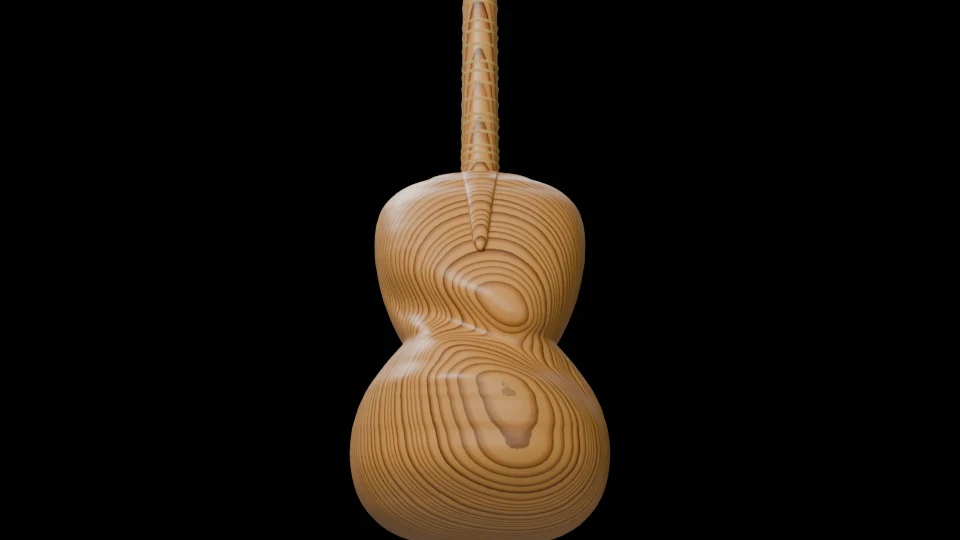
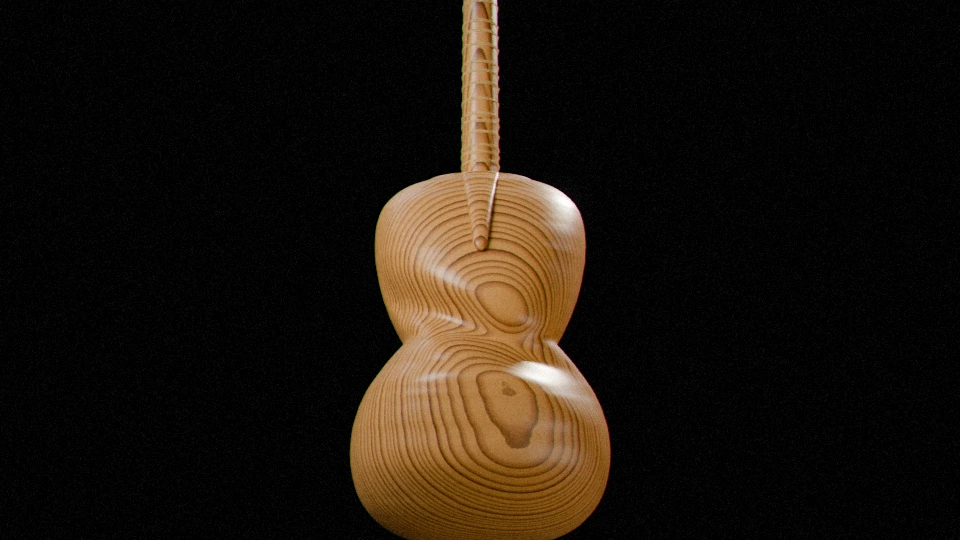
Render: natural window light and photographic imperfections (round 8)
Window key with soft frame shadows, darker room, warm bounce and a slightly hot
back light replace the even studio light (TAR_LIGHT=studio keeps it). Each frame
gets a seeded photo finish: off-centre vignette, light fall-off, highlight bloom,
slight colour fringing and per-frame grain; the raw render is kept alongside.

Claude-Session: https://claude.ai/code/session_01G1uTAfhbgKsxoFAeno84xV

Changed region(s): [[0.375, 0.0, 0.6562, 1.0]]

diff --git a/render/build_scene.py b/render/build_scene.py
@@ -379,6 +379,34 @@ def add_soft_key():
     return key
 
 
+def add_window_light():
+    """Natural, imperfect light, as in a photo taken by a window (round 8): one big window up
+    and to the left whose frame casts soft bar shadows, a darker room, a warm bounce from a
+    wooden table on the right, and a small back light that runs a little hot on the edges.
+    The lights stay fixed while the instrument turns, so its light changes as a real one would."""
+    target = PIVOT + Vector((0, 0, 0.05))
+    def area(name, loc, size, size_y, energy, colour):
+        bpy.ops.object.light_add(type='AREA', location=loc)
+        l = bpy.context.object; l.name = name
+        l.data.shape = 'RECTANGLE'; l.data.size = size; l.data.size_y = size_y
+        l.data.energy = energy; l.data.color = colour
+        l.rotation_euler = (target - l.location).normalized().to_track_quat('-Z', 'Y').to_euler()
+        return l
+    window = area('window', (-1.7, -1.1, 1.75), 1.1, 1.5, 230, (1.0, 0.93, 0.83))
+    # the window frame: two crossing bars just in front of the glass, seen by the light only
+    d = (target - window.location).normalized()
+    for k, (sx, sy) in enumerate(((0.035, 1.6), (1.2, 0.035))):
+        bpy.ops.mesh.primitive_plane_add(size=1, location=window.location + d * 0.12)
+        bar = bpy.context.object; bar.name = f'window_bar{k}'
+        bar.scale = (sx, sy, 1); bar.rotation_euler = window.rotation_euler
+        bar.visible_camera = False; bar.visible_glossy = False
+        # off-centre, as a real window never lines up with the subject
+        bar.location += window.matrix_world.to_3x3() @ Vector((0.12, -0.18, 0))
+    area('bounce', (1.4, -0.9, -0.35), 1.6, 1.0, 45, (1.0, 0.78, 0.55))
+    area('rim', (1.0, 1.5, 1.2), 0.35, 0.35, 140, (1.0, 0.9, 0.78))
+    return window
+
+
 def add_camera():
     cam_data = bpy.data.cameras.new('camera')
     cam_data.sensor_fit = 'VERTICAL'
@@ -462,16 +490,28 @@ def setup(width, height, samples):
     sc.render.image_settings.file_format = 'PNG'
     pivot, _ = import_model()
     build_materials()
-    build_world()
-    add_soft_key()
+    if os.environ.get('TAR_LIGHT', 'natural') == 'studio':
+        build_world(); add_soft_key()  # rounds 1–7: soft, even studio light
+    else:
+        build_world(strength=0.25); add_window_light()
     cam = add_camera()
     return sc, pivot, cam
 
 
-def render(sc, path):
-    sc.render.filepath = str(path)
+def render(sc, path, seed=0, raw_dir=None):
+    """Renders one frame; unless TAR_FINISH=0, the photographic flaws of photo_finish.py are
+    added and the untouched render is kept in raw_dir (or next to it, as *_raw.png)."""
+    raw = (raw_dir / path.name) if raw_dir else path.with_name(path.stem + '_raw.png')
+    raw.parent.mkdir(parents=True, exist_ok=True)
+    sc.render.filepath = str(raw)
     t = time.time()
     bpy.ops.render.render(write_still=True)
+    if os.environ.get('TAR_FINISH', '1') != '0':
+        from PIL import Image
+        import photo_finish
+        photo_finish.finish(Image.open(raw), seed).save(path)
+    else:
+        raw.replace(path)
     print(f'rendered {path.name} in {time.time() - t:.1f}s', flush=True)
 
 
@@ -482,7 +522,7 @@ def main(argv):
         out = BUILD / os.environ.get('TAR_TEST_DIR', 'test'); out.mkdir(parents=True, exist_ok=True)
         for k in SCENES['keyframes'][1:]:
             apply_pose(pivot, cam, k['yaw'], k['pitch'], k['target'], k['dist'], k['elev'], k.get('aperture', 0))
-            render(sc, out / f"scene_{k['caption']}.png")
+            render(sc, out / f"scene_{k['caption']}.png", seed=k['caption'], raw_dir=out / 'raw')
     elif mode == 'scroll':
         start, end = int(argv[1]), int(argv[2])
         total = int(argv[3]) if len(argv) > 3 else 240
@@ -493,7 +533,7 @@ def main(argv):
             if path.exists():
                 continue  # resumable: frames already rendered are kept
             apply_state(pivot, cam, sample_scroll(f / (total - 1)))
-            render(sc, path)
+            render(sc, path, seed=f, raw_dir=HERE / 'frames_raw' / 'scroll_raw')
     elif mode == 'sheet':
         sc, pivot, cam = setup(1200, 900, 64)
         out = HERE / 'frames_raw' / 'sheet'; out.mkdir(parents=True, exist_ok=True)
@@ -504,7 +544,7 @@ def main(argv):
                 if path.exists():
                     continue
                 apply_pose(pivot, cam, yaw, pitch, [c['x'], c['y'], c['z']], 250, 0)
-                render(sc, path)
+                render(sc, path, seed=10000 + yaw * 10 + pitch, raw_dir=HERE / 'frames_raw' / 'sheet_raw')
 
 
 if __name__ == '__main__':

diff --git a/render/photo_finish.py b/render/photo_finish.py
@@ -1,0 +1,76 @@
+"""The small flaws of a real photograph, applied to each rendered frame.
+
+A path tracer gives a perfect image: even exposure, no lens, no sensor. Real photos of an
+instrument never look like that, and the eye notices. This adds, gently:
+
+- a lens that is a little darker at the corners, and not exactly round or centred;
+- exposure that is not perfectly even across the frame (a light that falls off);
+- a soft halo round the brightest highlights (bloom of a real lens);
+- a trace of colour fringing towards the edges (lateral chromatic aberration);
+- sensor grain, stronger in the shadows, different in every frame.
+
+Every effect is seeded and depends only on the frame's position, so a frame re-rendered
+later is identical, and neighbouring frames differ only in their grain.
+
+    python3 photo_finish.py in.png out.png [seed]
+"""
+import sys
+
+import numpy as np
+from PIL import Image, ImageFilter
+
+
+def _scale_channel(ch, factor):
+    """Scales one channel about the image centre (for colour fringing)."""
+    h, w = ch.shape
+    im = Image.fromarray(ch, mode='F')
+    nw, nh = round(w * factor), round(h * factor)
+    im = im.resize((nw, nh), Image.BICUBIC)
+    x0, y0 = (nw - w) // 2, (nh - h) // 2
+    return np.asarray(im.crop((x0, y0, x0 + w, y0 + h)), dtype=np.float32)
+
+
+def finish(img, seed=0, grain=1.0):
+    a = np.asarray(img.convert('RGB'), dtype=np.float32) / 255.0
+    h, w, _ = a.shape
+    yy, xx = np.mgrid[0:h, 0:w].astype(np.float32)
+    # normalised coordinates, -1…1 on the short side
+    s = min(w, h) / 2
+    x, y = (xx - w / 2) / s, (yy - h / 2) / s
+
+    # 1. bloom: a soft halo round the highlights
+    lum = a @ np.array([0.2126, 0.7152, 0.0722], dtype=np.float32)
+    hi = np.clip((lum - 0.62) / 0.38, 0, 1)[..., None] * a
+    hi_img = Image.fromarray((hi * 255).astype(np.uint8))
+    halo = np.asarray(hi_img.filter(ImageFilter.GaussianBlur(radius=max(w, h) / 90)), dtype=np.float32) / 255.0
+    a = a + halo * 0.18
+
+    # 2. lateral chromatic aberration: red a touch larger, blue a touch smaller
+    a[..., 0] = _scale_channel(a[..., 0], 1.0007)
+    a[..., 2] = _scale_channel(a[..., 2], 0.9993)
+
+    # 3. vignette: slightly oval and a little off centre, as on a real lens and sensor
+    r2 = ((x - 0.04) / 1.25) ** 2 + ((y + 0.03) / 1.1) ** 2
+    a *= (1 - 0.28 * np.clip(r2, 0, 2.5) / 2.5)[..., None] ** 1.0
+
+    # 4. light falling off across the frame: the window is up and to the left
+    fall = 1 + 0.05 * (-x * 0.6 - y * 0.8) / 2
+    a *= fall[..., None]
+
+    # 5. grain: fine, slightly coloured, stronger in the shadows; new in every frame
+    rng = np.random.default_rng(seed)
+    n = rng.normal(0, 1, (h, w, 1)).astype(np.float32) + 0.35 * rng.normal(0, 1, (h, w, 3)).astype(np.float32)
+    n_img = Image.fromarray(np.clip(n[..., 0] * 40 + 128, 0, 255).astype(np.uint8))
+    soft = (np.asarray(n_img.filter(ImageFilter.GaussianBlur(0.6)), dtype=np.float32) - 128) / 40
+    n = 0.5 * n + 0.5 * soft[..., None]
+    lum = a @ np.array([0.2126, 0.7152, 0.0722], dtype=np.float32)
+    amount = grain * (0.010 + 0.016 * (1 - np.clip(lum, 0, 1)))[..., None]
+    a = a + n * amount
+
+    return Image.fromarray((np.clip(a, 0, 1) * 255 + 0.5).astype(np.uint8))
+
+
+if __name__ == '__main__':
+    src, dst = sys.argv[1], sys.argv[2]
+    seed = int(sys.argv[3]) if len(sys.argv) > 3 else 0
+    finish(Image.open(src), seed).save(dst)

diff --git a/docs/tar-3d/SPEC.md b/docs/tar-3d/SPEC.md
@@ -714,3 +714,16 @@ docs/tar-3d/test/    عکسها و گزارش تست فاز ۷
 |-------|------------------|------------------|
 | چوب توت کاسه، دسته و سر: اشباع رنگ × ۰٫۹ و روشنایی × ۰٫۹ (`#c98a3a/#a05a24/#4a2008` → `#b58241/#90572c/#43210d`)؛ لبهی چوبی دور پوست هم به همین نسبت. پرداخت ساتن دست نخورد | فاز ۵ | ر۲؛ بازبینی ر۳ |
 | سرپنجه: محور کُنده نزدیکتر و کجتر، پهنای سالها بسیار نامنظم، موجهای آرام در طول الیاف و لبهی نرمتر خطوط؛ بهجای نوارهای موازی و همفاصله، رگههایی با فاصلهی ناهمسان، باریک و پهن شدن و انحنای طبیعی | فاز ۵ (هندسهی فاز ۴ دست نخورد) | ر۲؛ بازبینی ر۳ |
+
+## ۱۸. دور اصلاح ۸ — نور طبیعی با نقصهای عکاسی واقعی (۱۴۰۵/۰۷/۱۱)
+
+**درخواست کاربر:** نورپردازی طوری عوض شود که انگار ساز واقعی است و در نمایش نور هم نقصهایی وجود دارد.
+
+**نور (در Cycles، `add_window_light`):** بهجای نور یکنواخت استودیو (که با `TAR_LIGHT=studio` هنوز در دسترس است): یک پنجرهی بزرگ بالا و چپ با قاب دو میلهای که سایهی نرم میاندازد و کمی از مرکز جابهجاست؛ نور محیطی اتاق ۴ برابر کمتر (۰٫۲۵)، پس سمت سایه واقعاً تاریک میشود؛ بازتاب گرم و کمنور از سمت راست پایین (مثل میز چوبی)؛ یک نور پشتی کوچک که لبهها را کمی بیش از حد روشن میکند. پرداخت ساتن، انعکاس پنجره را روی برآمدگیهای کاسه نشان میدهد.
+
+**نقصهای عکس (`render/photo_finish.py`، روی هر فریم):** تاریکی گوشهها (کمی بیضی و خارج از مرکز)، افت نور در عرض کادر، هالهی نرم دور روشنترین نقاط، اندکی پخش رنگ در لبهها، دانهی حسگر که در سایهها بیشتر است و در هر فریم تازه است. همه با بذرِ ثابت تکرارپذیرند؛ رندر خام هم کنار آن نگه داشته میشود (`frames_raw/*_raw/`) تا این مرحله بدون رندر دوباره قابل تنظیم باشد.
+
+| تغییر | فاز در طرح اصلی | فاز در راه حل ۲ |
+|-------|------------------|------------------|
+| نور پنجره، اتاق تاریکتر، بازتاب گرم، نور پشتی | فاز ۶ — نور و رندر سینمایی | ر۳ — نور و دوربین |
+| نقصهای لنز و حسگر | فاز ۶ | ر۳ (اعمال در ر۴ روی همهی فریمها) |
